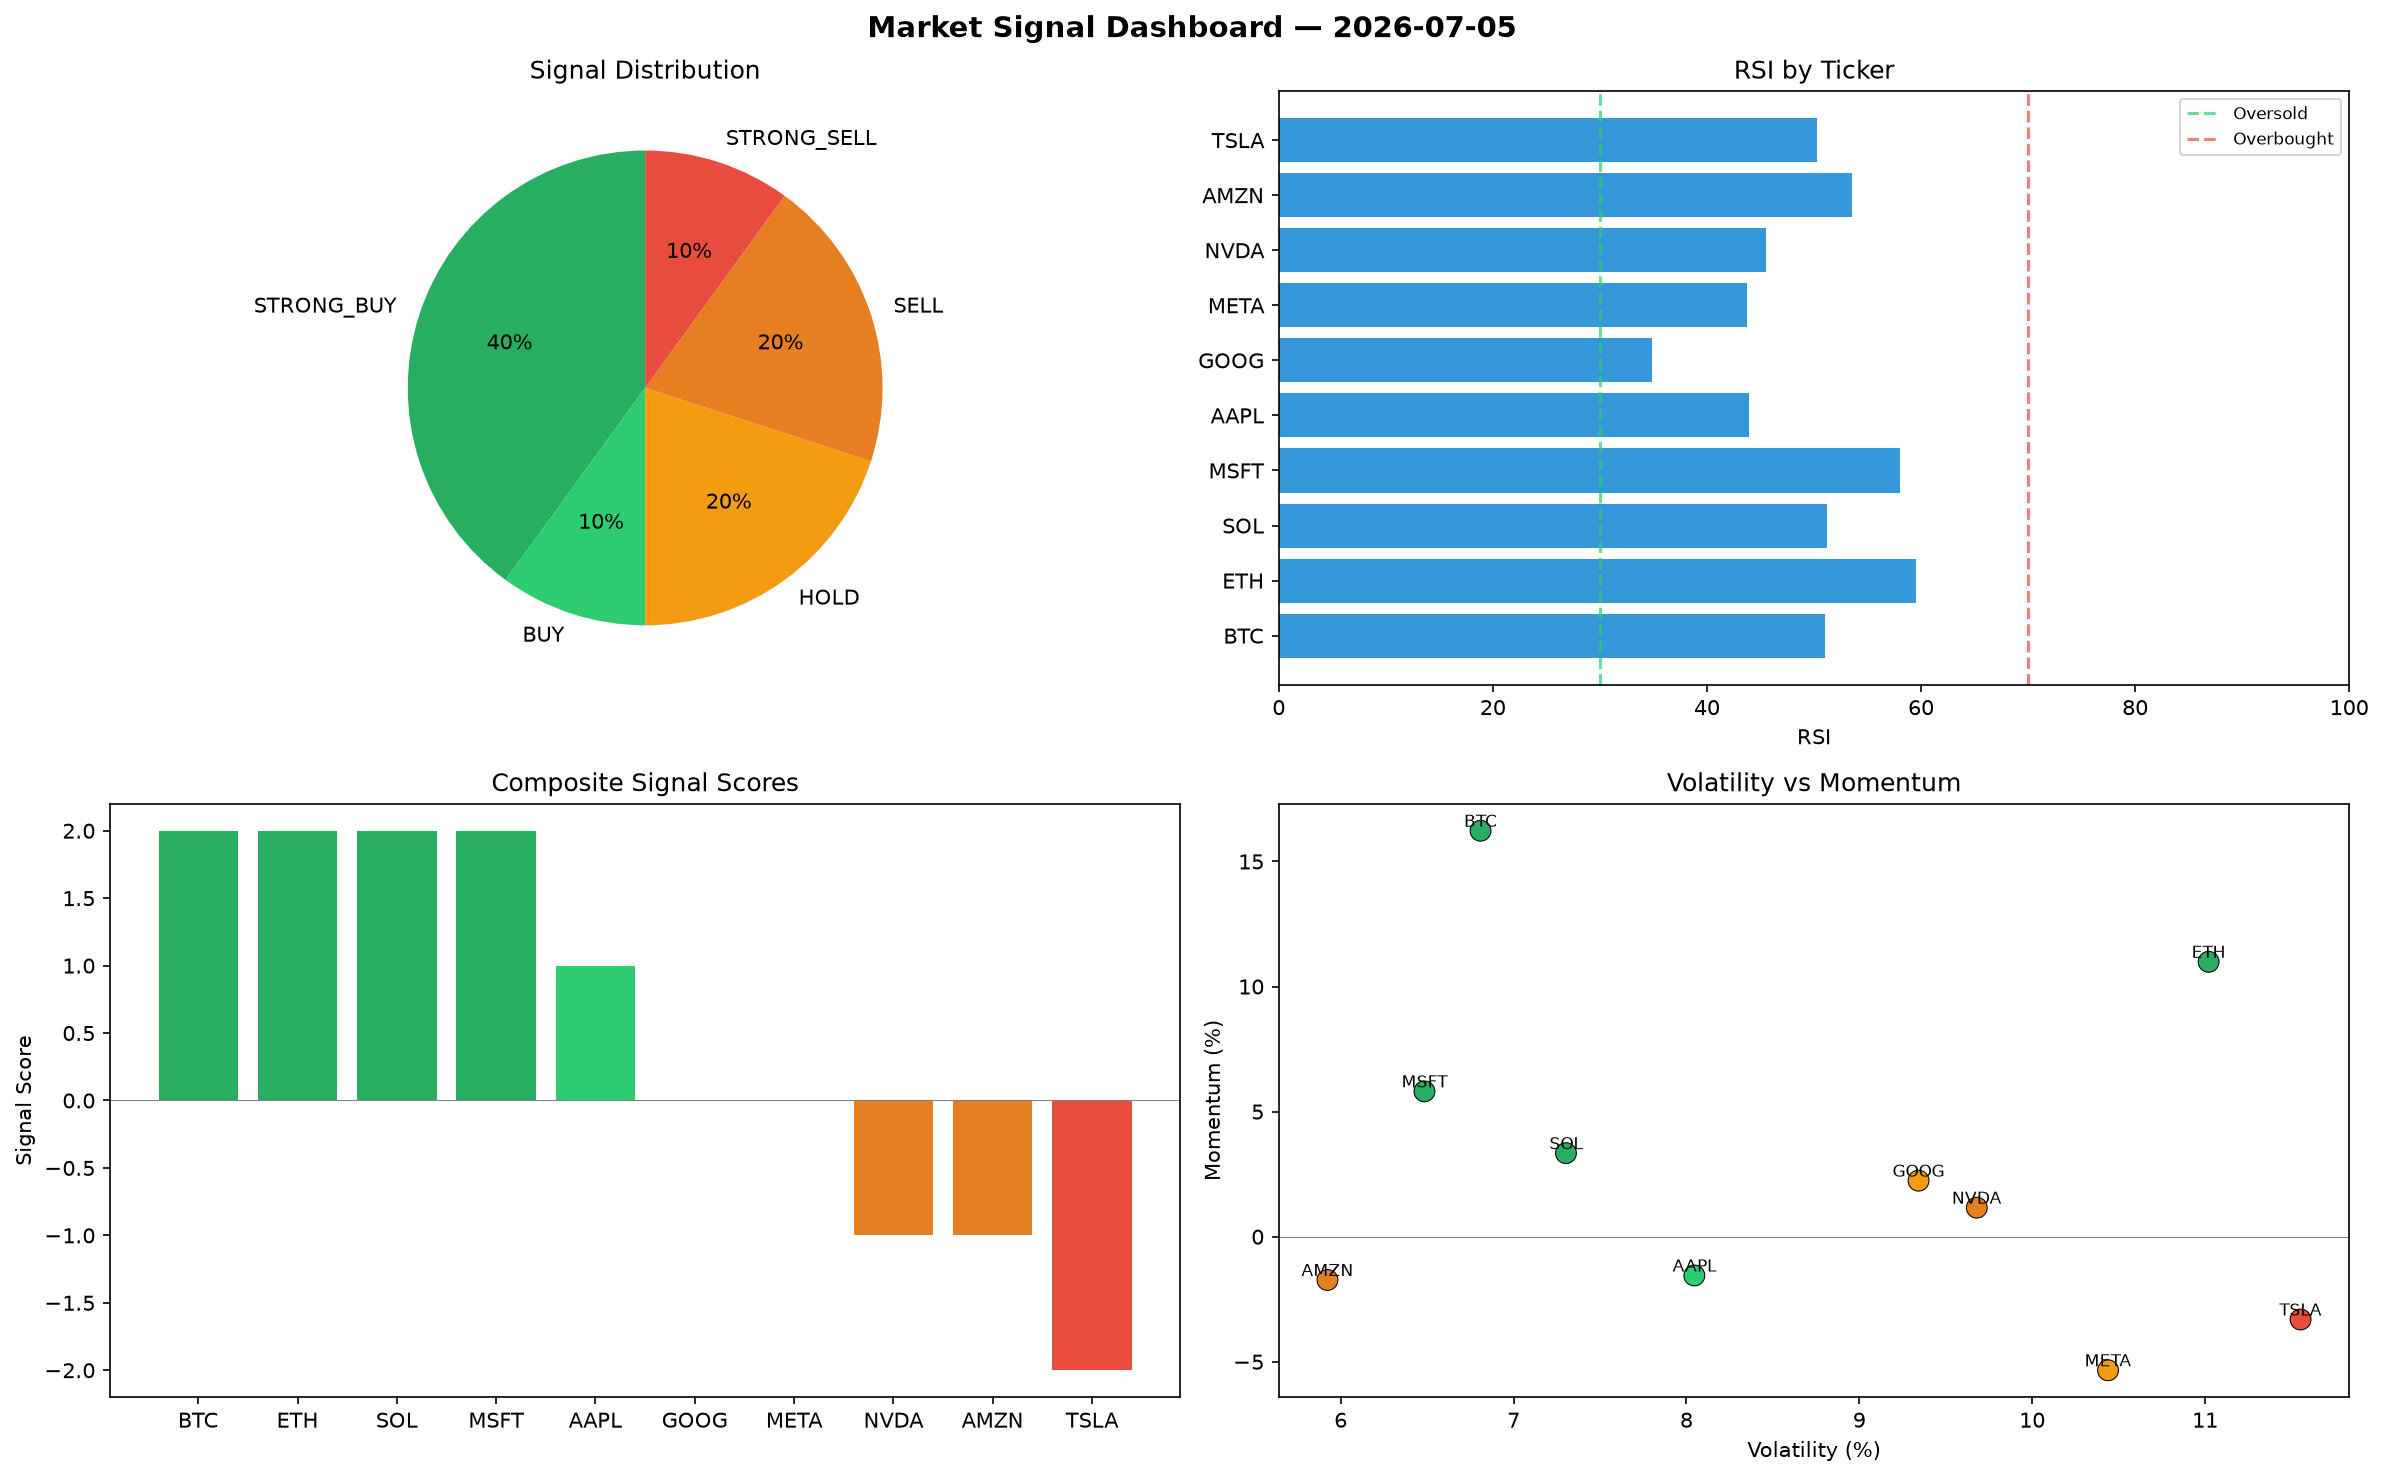
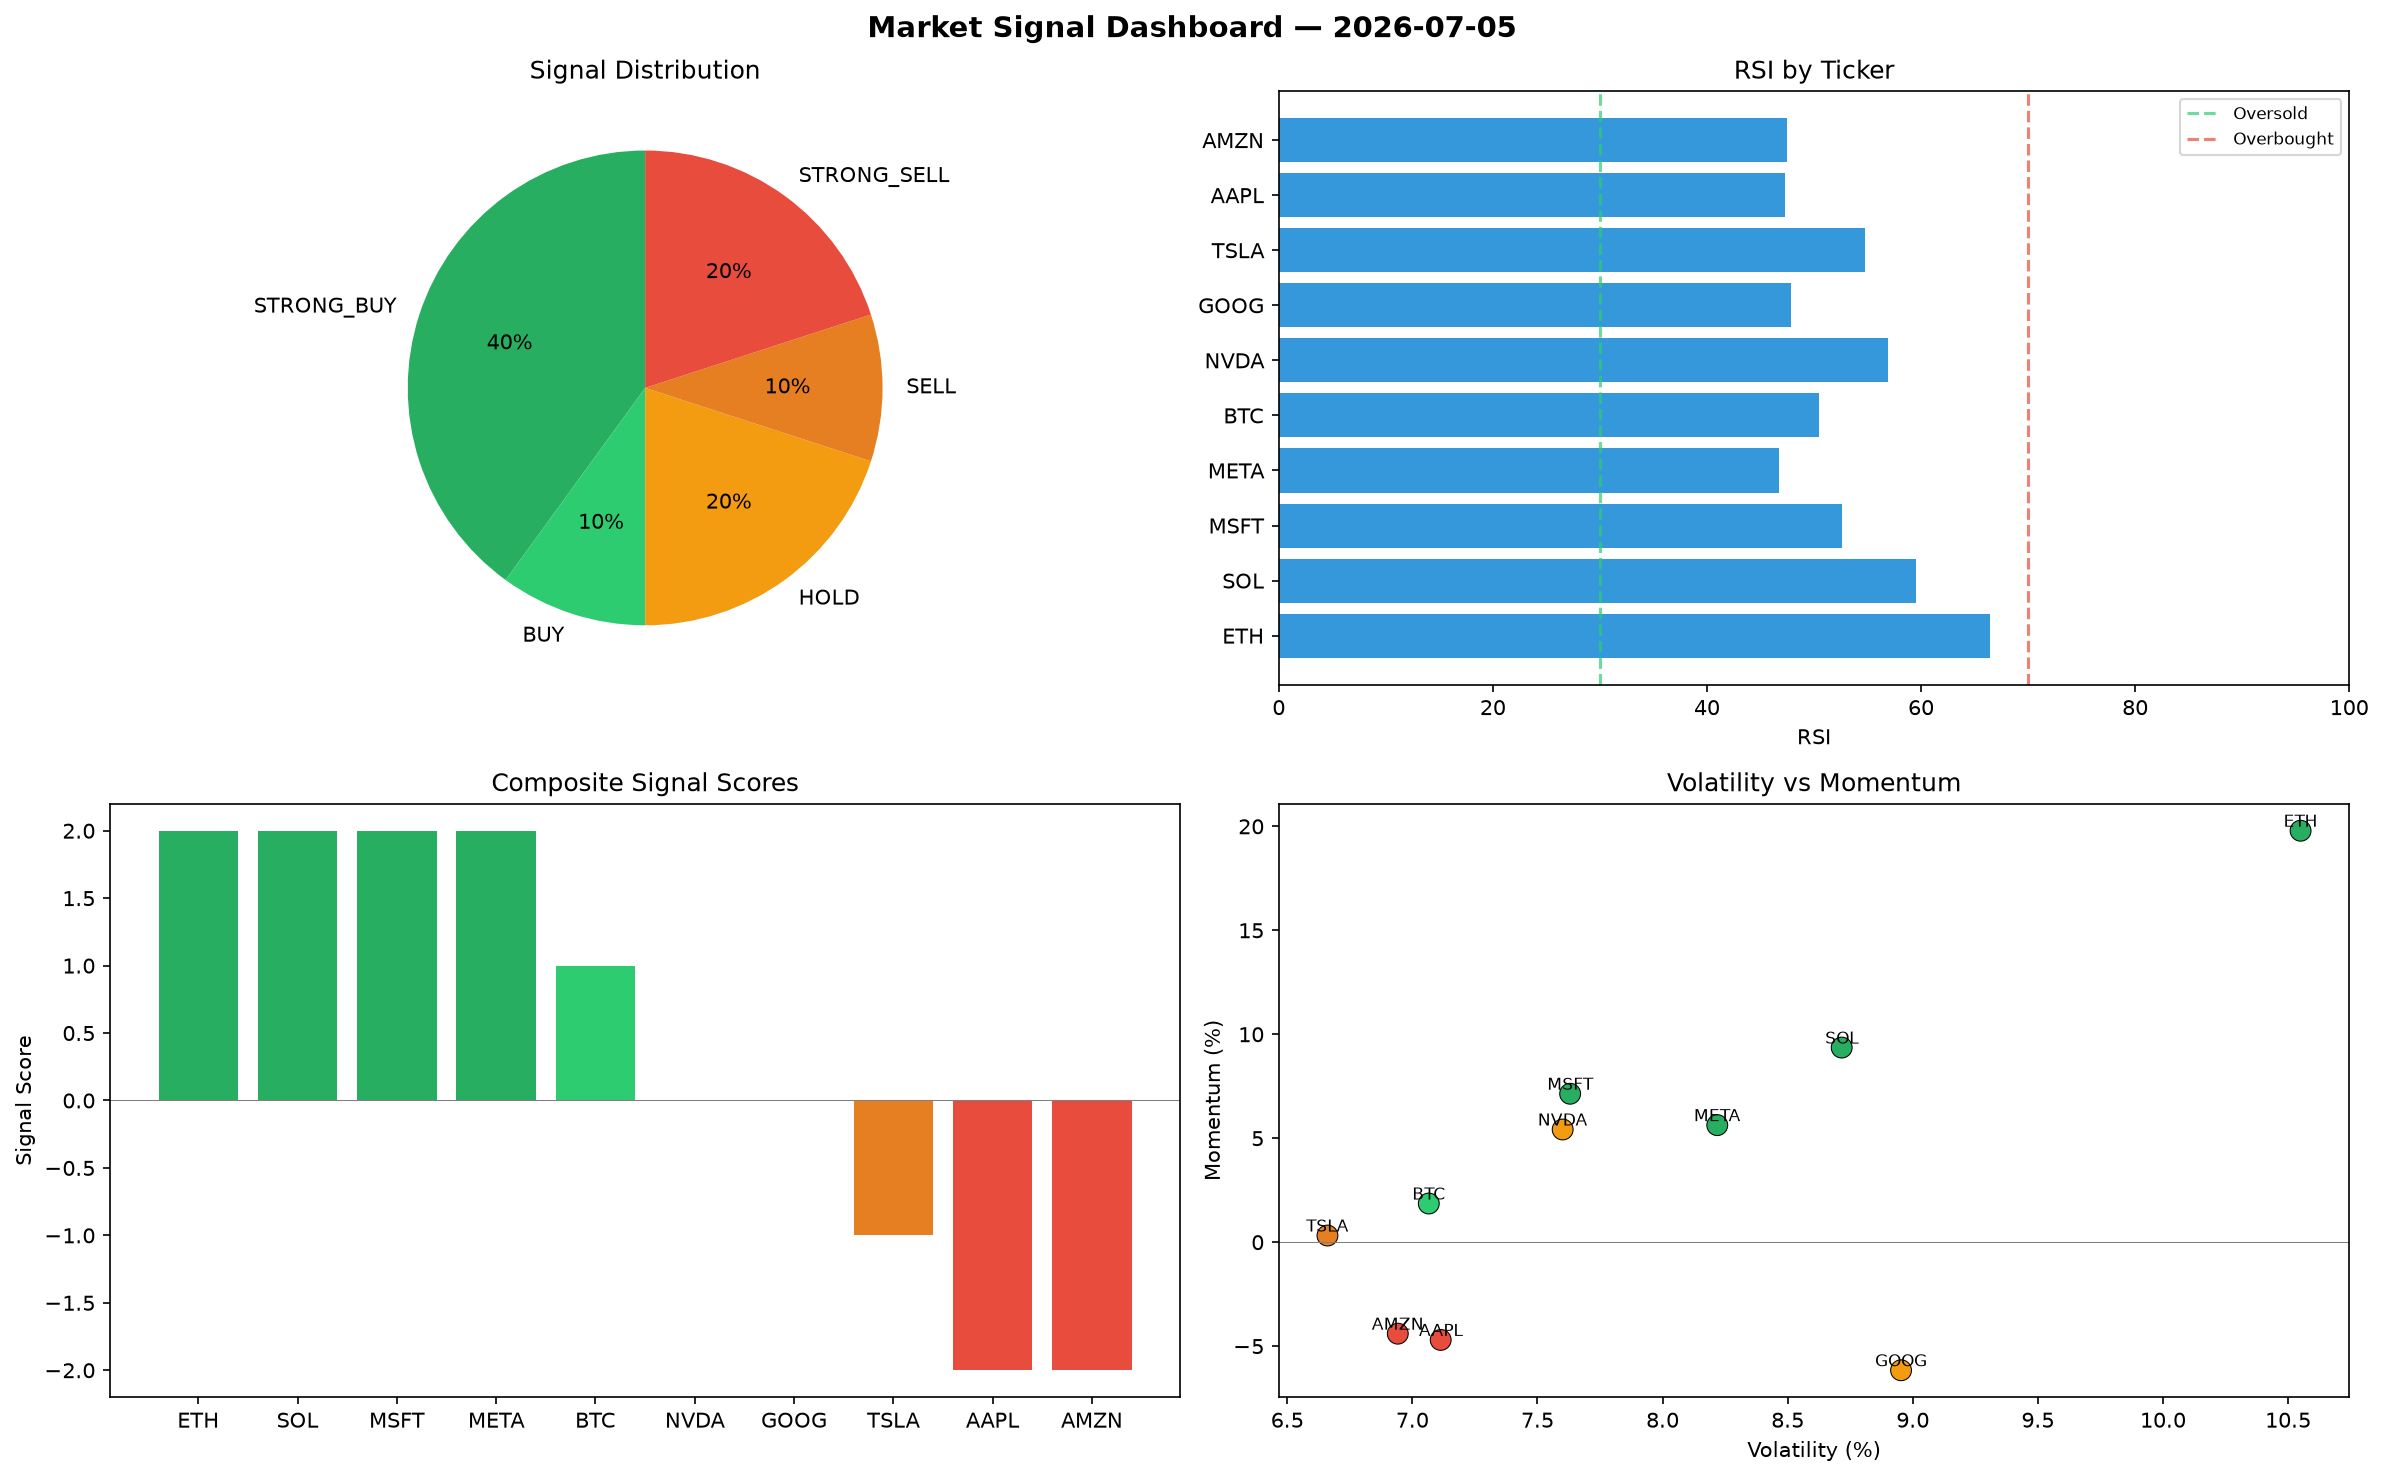
automated-bots: market signals 2026-07-05T10:35

diff --git a/logs/2026-07-05.md b/logs/2026-07-05.md
@@ -1,6 +1,6 @@
 # Market Signal Report — 2026-07-05
 
-**Run ID:** `b3778704a9` | **Buy:** 5 | **Sell:** 3 | **Hold:** 2
+**Run ID:** `63e031ca83` | **Buy:** 5 | **Sell:** 3 | **Hold:** 2
 
 ![Dashboard](2026-07-05_dashboard.png)
 
@@ -8,28 +8,28 @@
 
 | Ticker | Price | Signal | Score | RSI | Momentum | Confidence |
 |--------|-------|--------|-------|-----|----------|------------|
-| BTC | $3008.31 | **STRONG_BUY** | 2 | 51.01 | 0.1623 | 0.5 |
-| ETH | $3764.72 | **STRONG_BUY** | 2 | 59.53 | 0.1099 | 0.5 |
-| SOL | $4341.76 | **STRONG_BUY** | 2 | 51.2 | 0.0334 | 0.5 |
-| MSFT | $3038.72 | **STRONG_BUY** | 2 | 58.02 | 0.0581 | 0.5 |
-| AAPL | $2286.51 | **BUY** | 1 | 43.91 | -0.0155 | 0.25 |
-| GOOG | $1192.08 | **HOLD** | 0 | 34.85 | 0.0224 | 0.0 |
-| META | $1412.51 | **HOLD** | 0 | 43.73 | -0.0534 | 0.0 |
-| NVDA | $2665.55 | **SELL** | -1 | 45.5 | 0.0116 | 0.25 |
-| AMZN | $2973.37 | **SELL** | -1 | 53.53 | -0.0173 | 0.25 |
-| TSLA | $966.36 | **STRONG_SELL** | -2 | 50.27 | -0.0331 | 0.5 |
+| ETH | $180.22 | **STRONG_BUY** | 2 | 66.48 | 0.1979 | 0.5 |
+| SOL | $2177.83 | **STRONG_BUY** | 2 | 59.5 | 0.0936 | 0.5 |
+| MSFT | $82.1 | **STRONG_BUY** | 2 | 52.63 | 0.0714 | 0.5 |
+| META | $2693.35 | **STRONG_BUY** | 2 | 46.69 | 0.0563 | 0.5 |
+| BTC | $3912.97 | **BUY** | 1 | 50.51 | 0.0186 | 0.25 |
+| NVDA | $1056.72 | **HOLD** | 0 | 56.91 | 0.0542 | 0.0 |
+| GOOG | $3138.15 | **HOLD** | 0 | 47.84 | -0.0616 | 0.0 |
+| TSLA | $2072.08 | **SELL** | -1 | 54.72 | 0.0032 | 0.25 |
+| AAPL | $3406.6 | **STRONG_SELL** | -2 | 47.3 | -0.047 | 0.5 |
+| AMZN | $654.94 | **STRONG_SELL** | -2 | 47.43 | -0.044 | 0.5 |
 
 ## Delta vs Yesterday
 
 | Ticker | Today | Yesterday | Price Change | Signal Changed |
 |--------|-------|-----------|-------------|----------------|
-| BTC | STRONG_BUY | STRONG_SELL | 📈 300.95% | ⚠ YES |
-| ETH | STRONG_BUY | HOLD | 📈 194.98% | ⚠ YES |
-| SOL | STRONG_BUY | BUY | 📈 969.11% | ⚠ YES |
-| MSFT | STRONG_BUY | STRONG_SELL | 📉 -24.26% | ⚠ YES |
-| AAPL | BUY | HOLD | 📈 2174.46% | ⚠ YES |
-| GOOG | HOLD | STRONG_BUY | 📈 45.39% | ⚠ YES |
-| META | HOLD | SELL | 📈 52.78% | ⚠ YES |
-| NVDA | SELL | HOLD | 📉 -2.85% | ⚠ YES |
-| AMZN | SELL | HOLD | 📉 -31.1% | ⚠ YES |
-| TSLA | STRONG_SELL | STRONG_BUY | 📉 -65.91% | ⚠ YES |
+| ETH | STRONG_BUY | HOLD | 📉 -85.88% | ⚠ YES |
+| SOL | STRONG_BUY | BUY | 📈 436.27% | ⚠ YES |
+| MSFT | STRONG_BUY | STRONG_SELL | 📉 -97.95% | ⚠ YES |
+| META | STRONG_BUY | SELL | 📈 191.32% | ⚠ YES |
+| BTC | BUY | STRONG_SELL | 📈 421.52% | ⚠ YES |
+| NVDA | HOLD | HOLD | 📉 -61.49% | — |
+| GOOG | HOLD | STRONG_BUY | 📈 282.74% | ⚠ YES |
+| TSLA | SELL | STRONG_BUY | 📉 -26.91% | ⚠ YES |
+| AAPL | STRONG_SELL | HOLD | 📈 3288.64% | ⚠ YES |
+| AMZN | STRONG_SELL | HOLD | 📉 -84.82% | ⚠ YES |
